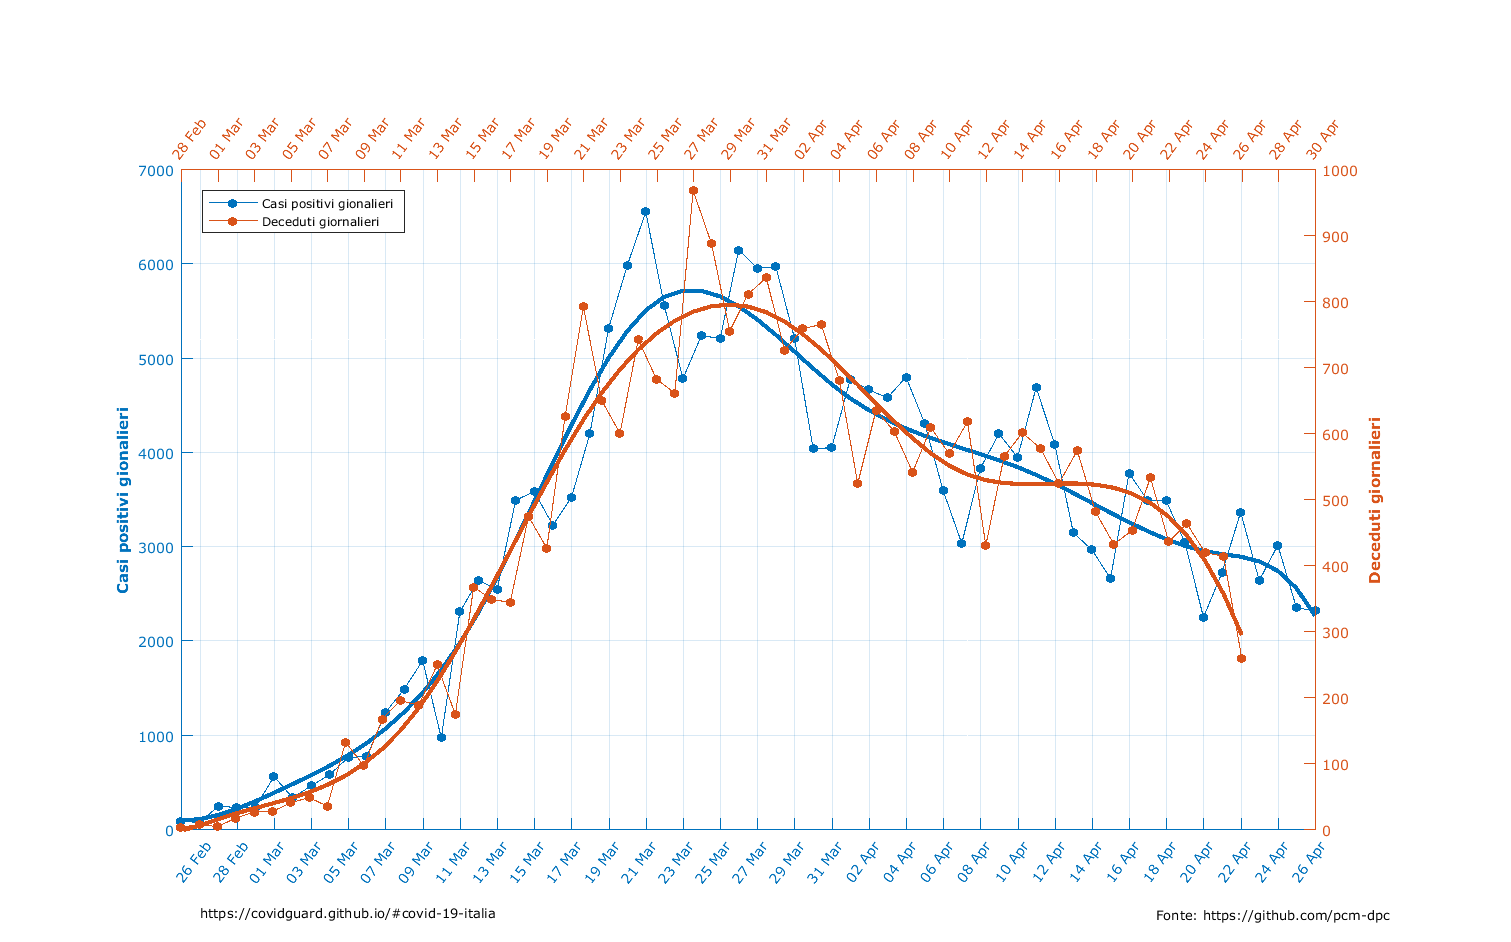
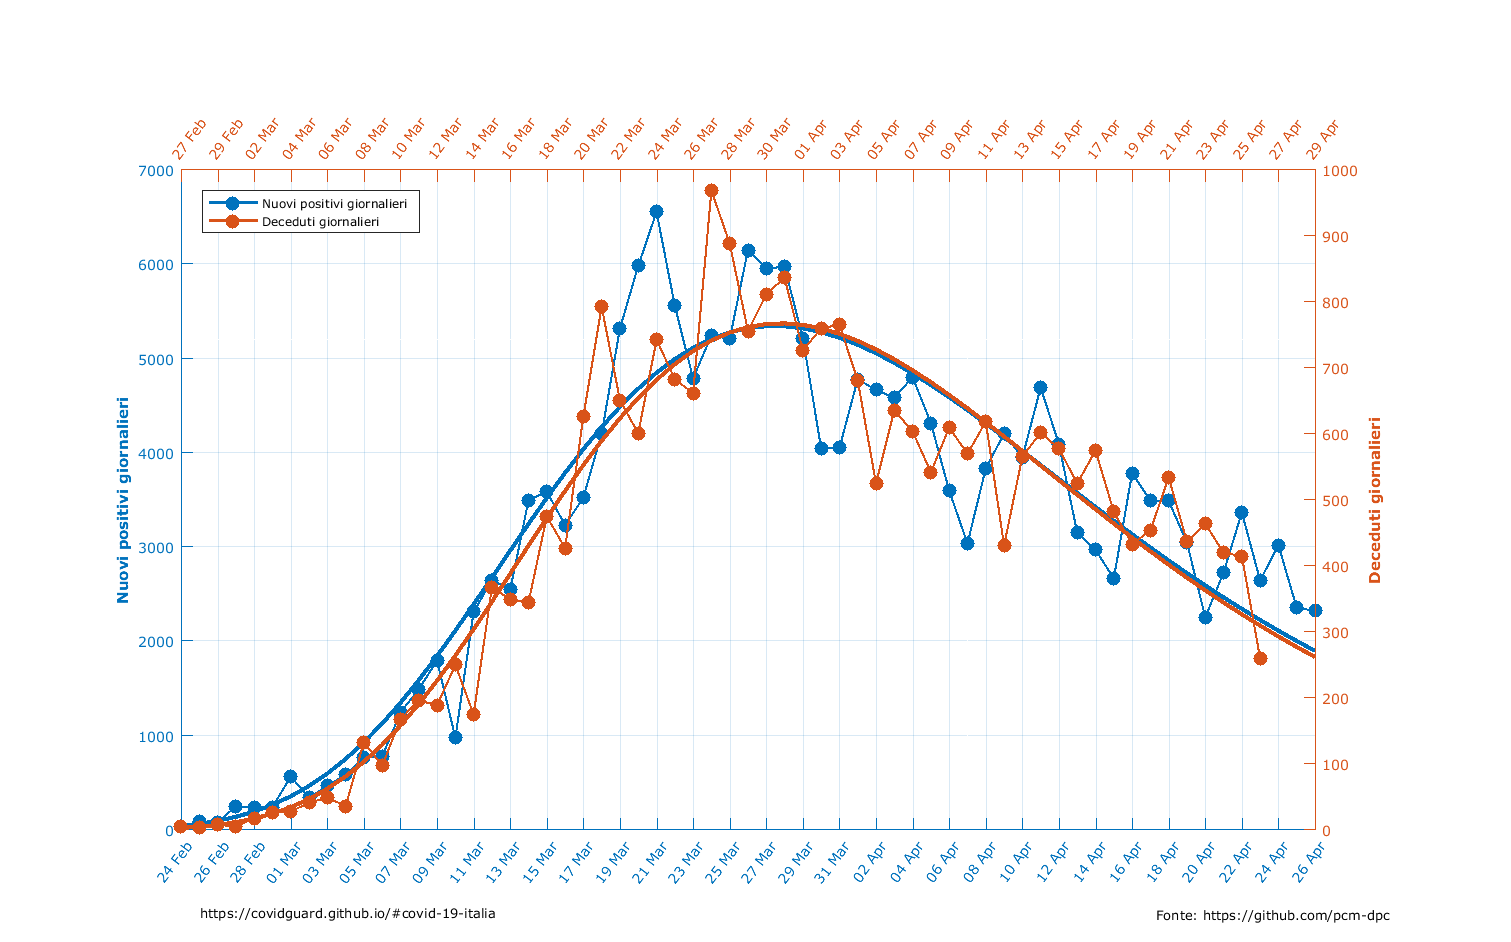
Update correlazioni

Changed region(s): [[0.0933, 0.1847, 0.8709, 0.9544], [0.0622, 0.431, 0.0933, 0.6465], [0.1244, 0.2155, 0.2799, 0.2463]]

diff --git a/code/Analyse_gompertz.m b/code/Analyse_gompertz.m
@@ -2963,174 +2963,174 @@ data_casiPositivi=diff(data_casiPositivi);
 data_deceduti=diff(data_deceduti);
 data_terapie=diff(data_terapie);
 
-% % interpolazione totale casi giornalieri
-% fout=fopen('testIn_gauss.txt','wt');
-% for i=1:size(t,1)
-%     fprintf(fout,'%d;%d\n',t(i),data_casiPositivi(i));
-% end
-% fclose(fout);
-% % command=sprintf('gauss_estim testIn_gauss.txt');system(command);
-% % [t,a1,a2,a3,a4,a5]=textread('testIn_gauss_fit.txt','%f%f%f%f%f%f','delimiter',';');
-% 
-% command=sprintf('gomp_d1_estim testIn_gauss.txt');system(command);
-% [t_1,a1,a2,a3,a4,a5]=textread('testIn_gauss_gomp_d1_fit.txt','%f%f%f%f%f%f','delimiter',';');
-% 
-% 
-% 
-% % interpolazione deceduti giornalieri
-% fout=fopen('testIn_gauss.txt','wt');
-% 
-% for i=1:size(t,1)
-%     fprintf(fout,'%d;%d\n',t(i),data_deceduti(i));
-% end
-% fclose(fout);
-% % command=sprintf('gauss_estim testIn_gauss.txt');system(command);
-% % [t,a1,a2,a3,a4,a5]=textread('testIn_gauss_fit.txt','%f%f%f%f%f%f','delimiter',';');
-% 
-% command=sprintf('gomp_d1_estim testIn_gauss.txt');system(command);
-% [t_1_d,a1_d,a2,a3,a4,a5]=textread('testIn_gauss_gomp_d1_fit.txt','%f%f%f%f%f%f','delimiter',';');
-% 
-% 
-% corrcoeff_tot=[];
-% for d=0:10
-%     a=corrcoef(a1(1:end-d),a1_d(d+1:end));
-%     corrcoeff_tot(d+1)=a(1,2);
-% end
-% [coerrcoeff_max, idx]=max(corrcoeff_tot);
-% offset_dec=idx-1;
-% 
-% 
-% 
-% 
-% 
-% figure;
-% id_f = gcf;
-% set(id_f, 'Name', 'Italia: correlazione temporale');
-% % title(sprintf([regione ': Italia: correlazione nuovi casi/deceduti giornalieri\\fontsize{5}\n ']))
-% 
-% 
-% set(gcf,'NumberTitle','Off');
-% set(gcf,'Position',[26 79 967 603]);
-% grid on
-% hold on
-% 
-% [ax,a,b] = plotxx(t,data_casiPositivi,t,data_deceduti);
-% hold on
-% 
-% ax1 = ax(1);
-% ax2 = ax(2);
-% 
-% set(gcf,'CurrentAxes',ax1)
-% c=plot(t_1,a1,'-r');
-% 
-% set(gcf,'CurrentAxes',ax2)
-% d=plot(t_1_d,a1_d,'-b');
-% 
-% %
-% % a=plot(t,data_casiPositivi,'-ob','LineWidth', 2.0,'color',[0 0.200000002980232 0.600000023841858]); set(a,'markersize',6,'MarkerFaceColor',[0 0.447058826684952 0.74117648601532],'Color',[0 0.447058826684952 0.74117648601532]);
-% % b=plot(t-offset_dec,data_deceduti,'-ob','LineWidth', 2.0,'color',[1 0.200000002980232 0.600000023841858],'Parent',ax2); set(b,'markersize',6,'MarkerFaceColor',[0.850980401039124 0.325490206480026 0.0980392172932625],'Color',[0.850980401039124 0.325490206480026 0.0980392172932625]);
-% 
-% 
-% if ismac
-%     font_size = 9;
-% else
-%     font_size = 6.5;
-% end
-% 
-% set(a,'marker','o','markersize',6,'MarkerFaceColor',[0 0.447058826684952 0.74117648601532],'Color',[0 0.447058826684952 0.74117648601532],'LineWidth', 1.0);
-% set(b,'marker','o','markersize',6,'MarkerFaceColor',[0.850980401039124 0.325490206480026 0.0980392172932625],'Color',[0.850980401039124 0.325490206480026 0.0980392172932625],'LineWidth', 1.0);
-% set(c,'Color',[0 0.447058826684952 0.74117648601532],'LineWidth', 2.0);
-% set(d,'Color',[0.850980401039124 0.325490206480026 0.0980392172932625],'LineWidth', 2.0);
-% 
-% 
-% 
-% set(gcf,'CurrentAxes',ax1)
-% ylabel('Nuovi positivi giornalieri', 'FontName', 'Verdana', 'FontWeight', 'Bold','FontSize',8);
-% set(ax1, 'FontName', 'Verdana');
-% set(ax1, 'FontSize', font_size);
-% set(ax1,'xlim',([t(1),t(end)]));
-% % set(ax1,'ylim',([0,80]));
-% ax1.XTick = time_num(1:2:end);
-% datetick('x', 'dd mmm', 'keepticks') ;
-% set(ax1,'XTickLabelRotation',53,'FontSize',6.5);
-% set(ax1,'Xcolor',[0 0.447058826684952 0.74117648601532]);
-% set(ax1,'Ycolor',[0 0.447058826684952 0.74117648601532]);
-% 
-% set(gcf,'CurrentAxes',ax2)
-% ylabel('Deceduti giornalieri', 'FontName', 'Verdana', 'FontWeight', 'Bold','FontSize',8);
-% set(ax2, 'FontName', 'Verdana');
-% set(ax2, 'FontSize', font_size);
-% set(ax2,'xlim',([t(1)+offset_dec,t(end)+offset_dec]));
-% % set(ax2,'xlim',([t(1)+offset_dec-1,t(end)+offset_dec-1]));
-% % set(ax2,'xlim',([t(1)+offset_dec-1,t(end)+offset_dec-1]));
-% % ax2.XTick = t(1:2:end)+offset_dec-1
-% % set(ax2,'ylim',([0,80]));
-% ax2.XTick = time_num(1:2:end)+offset_dec;
-% ax2.XTickLabel = time_num(1:2:end)+offset_dec;
-% datetick('x', 'dd mmm', 'keepticks') ;
-% set(ax2,'XTickLabelRotation',53,'FontSize',6.5);
-% set(ax2,'Xcolor',[0.850980401039124 0.325490206480026 0.0980392172932625]);
-% set(ax2,'Ycolor',[0.850980401039124 0.325490206480026 0.0980392172932625]);
-% 
-% l=legend([a,b],'Nuovi positivi giornalieri','Deceduti giornalieri');
-% 
-% set(l,'Location','northwest')
-% % overlap copyright info
-% datestr_now = datestr(now);
-% annotation(gcf,'textbox',[0.72342 0.00000 0.2381 0.04638],...
-%     'String',{['Fonte: https://github.com/pcm-dpc']},...
-%     'HorizontalAlignment','center',...
-%     'FontSize',6,...
-%     'FontName','Verdana',...
-%     'FitBoxToText','off',...
-%     'LineStyle','none',...
-%     'Color',[0 0 0]);
-% 
-% annotation(gcf,'textbox',...
-%     [0.125695077559464 0.00165837479270315 0.238100000000001 0.04638],...
-%     'String',{'https://covidguard.github.io/#covid-19-italia'},...
-%     'LineStyle','none',...
-%     'HorizontalAlignment','left',...
-%     'FontSize',6,...
-%     'FontName','Verdana',...
-%     'FitBoxToText','off');
-% 
-% print(gcf, '-dpng', [WORKroot,'/slides/img/regioni/ita_correlazioneCasiDeceduti_v2.PNG']);
-% close(gcf);
-% 
-% 
+% interpolazione totale casi giornalieri
+fout=fopen('testIn_gauss.txt','wt');
+for i=1:size(t,1)
+    fprintf(fout,'%d;%d\n',t(i),data_casiPositivi(i));
+end
+fclose(fout);
+% command=sprintf('gauss_estim testIn_gauss.txt');system(command);
+% [t,a1,a2,a3,a4,a5]=textread('testIn_gauss_fit.txt','%f%f%f%f%f%f','delimiter',';');
+
+command=sprintf('gomp_d1_estim testIn_gauss.txt');system(command);
+[t_1,a1,a2,a3,a4,a5]=textread('testIn_gauss_gomp_d1_fit.txt','%f%f%f%f%f%f','delimiter',';');
+
+
+
+% interpolazione deceduti giornalieri
+fout=fopen('testIn_gauss.txt','wt');
+
+for i=1:size(t,1)
+    fprintf(fout,'%d;%d\n',t(i),data_deceduti(i));
+end
+fclose(fout);
+% command=sprintf('gauss_estim testIn_gauss.txt');system(command);
+% [t,a1,a2,a3,a4,a5]=textread('testIn_gauss_fit.txt','%f%f%f%f%f%f','delimiter',';');
+
+command=sprintf('gomp_d1_estim testIn_gauss.txt');system(command);
+[t_1_d,a1_d,a2,a3,a4,a5]=textread('testIn_gauss_gomp_d1_fit.txt','%f%f%f%f%f%f','delimiter',';');
+
+
+corrcoeff_tot=[];
+for d=0:10
+    a=corrcoef(a1(1:end-d),a1_d(d+1:end));
+    corrcoeff_tot(d+1)=a(1,2);
+end
+[coerrcoeff_max, idx]=max(corrcoeff_tot);
+offset_dec=idx-1;
 
 
 
 
 
-% % lombardia
-% reg=9
-% regione = char(regioni_tot(reg,1));
-% index = find(strcmp(dataReg.denominazione_regione,cellstr(regione)));
-% time_num = fix(datenum(dataReg.data(index)));
-% 
-% 
-% 
-% day_unique = unique(dataReg.data(index));
-% data_casiPositivi=NaN(size(day_unique,1),1);
-% data_deceduti=NaN(size(day_unique,1),1);
-% data_terapie=NaN(size(day_unique,1),1);
-% data_guariti=NaN(size(day_unique,1),1);
-% for k = 1: size(day_unique,1)
-%     index = find(strcmp(dataReg.data,day_unique(k))&strcmp(dataReg.denominazione_regione,cellstr(regione)));
-%     data_casiPositivi(k)=sum(dataReg.totale_casi(index));
-%     data_deceduti(k)=sum(dataReg.deceduti(index));
-%     data_guariti(k)=sum(dataReg.dimessi_guariti(index));
-%     data_terapie(k)=sum(dataReg.terapia_intensiva(index));
-% end
-% time_num = fix(datenum(day_unique));
-% % regione = 'Italia';
-% 
-% t=time_num(2:end);
-% data_casiPositivi=diff(data_casiPositivi);
-% data_deceduti=diff(data_deceduti);
-% data_terapie=diff(data_terapie);
+figure;
+id_f = gcf;
+set(id_f, 'Name', 'Italia: correlazione temporale');
+% title(sprintf([regione ': Italia: correlazione nuovi casi/deceduti giornalieri\\fontsize{5}\n ']))
+
+
+set(gcf,'NumberTitle','Off');
+set(gcf,'Position',[26 79 967 603]);
+grid on
+hold on
+
+[ax,a,b] = plotxx(t,data_casiPositivi,t,data_deceduti);
+hold on
+
+ax1 = ax(1);
+ax2 = ax(2);
+
+set(gcf,'CurrentAxes',ax1)
+c=plot(t_1,a1,'-r');
+
+set(gcf,'CurrentAxes',ax2)
+d=plot(t_1_d,a1_d,'-b');
+
+%
+% a=plot(t,data_casiPositivi,'-ob','LineWidth', 2.0,'color',[0 0.200000002980232 0.600000023841858]); set(a,'markersize',6,'MarkerFaceColor',[0 0.447058826684952 0.74117648601532],'Color',[0 0.447058826684952 0.74117648601532]);
+% b=plot(t-offset_dec,data_deceduti,'-ob','LineWidth', 2.0,'color',[1 0.200000002980232 0.600000023841858],'Parent',ax2); set(b,'markersize',6,'MarkerFaceColor',[0.850980401039124 0.325490206480026 0.0980392172932625],'Color',[0.850980401039124 0.325490206480026 0.0980392172932625]);
+
+
+if ismac
+    font_size = 9;
+else
+    font_size = 6.5;
+end
+
+set(a,'marker','o','markersize',6,'MarkerFaceColor',[0 0.447058826684952 0.74117648601532],'Color',[0 0.447058826684952 0.74117648601532],'LineWidth', 1.0);
+set(b,'marker','o','markersize',6,'MarkerFaceColor',[0.850980401039124 0.325490206480026 0.0980392172932625],'Color',[0.850980401039124 0.325490206480026 0.0980392172932625],'LineWidth', 1.0);
+set(c,'Color',[0 0.447058826684952 0.74117648601532],'LineWidth', 2.0);
+set(d,'Color',[0.850980401039124 0.325490206480026 0.0980392172932625],'LineWidth', 2.0);
+
+
+
+set(gcf,'CurrentAxes',ax1)
+ylabel('Nuovi positivi giornalieri', 'FontName', 'Verdana', 'FontWeight', 'Bold','FontSize',8);
+set(ax1, 'FontName', 'Verdana');
+set(ax1, 'FontSize', font_size);
+set(ax1,'xlim',([t(1),t(end)]));
+% set(ax1,'ylim',([0,80]));
+ax1.XTick = time_num(1:2:end);
+datetick('x', 'dd mmm', 'keepticks') ;
+set(ax1,'XTickLabelRotation',53,'FontSize',6.5);
+set(ax1,'Xcolor',[0 0.447058826684952 0.74117648601532]);
+set(ax1,'Ycolor',[0 0.447058826684952 0.74117648601532]);
+
+set(gcf,'CurrentAxes',ax2)
+ylabel('Deceduti giornalieri', 'FontName', 'Verdana', 'FontWeight', 'Bold','FontSize',8);
+set(ax2, 'FontName', 'Verdana');
+set(ax2, 'FontSize', font_size);
+set(ax2,'xlim',([t(1)+offset_dec,t(end)+offset_dec]));
+% set(ax2,'xlim',([t(1)+offset_dec-1,t(end)+offset_dec-1]));
+% set(ax2,'xlim',([t(1)+offset_dec-1,t(end)+offset_dec-1]));
+% ax2.XTick = t(1:2:end)+offset_dec-1
+% set(ax2,'ylim',([0,80]));
+ax2.XTick = time_num(1:2:end)+offset_dec;
+ax2.XTickLabel = time_num(1:2:end)+offset_dec;
+datetick('x', 'dd mmm', 'keepticks') ;
+set(ax2,'XTickLabelRotation',53,'FontSize',6.5);
+set(ax2,'Xcolor',[0.850980401039124 0.325490206480026 0.0980392172932625]);
+set(ax2,'Ycolor',[0.850980401039124 0.325490206480026 0.0980392172932625]);
+
+l=legend([a,b],'Nuovi positivi giornalieri','Deceduti giornalieri');
+
+set(l,'Location','northwest')
+% overlap copyright info
+datestr_now = datestr(now);
+annotation(gcf,'textbox',[0.72342 0.00000 0.2381 0.04638],...
+    'String',{['Fonte: https://github.com/pcm-dpc']},...
+    'HorizontalAlignment','center',...
+    'FontSize',6,...
+    'FontName','Verdana',...
+    'FitBoxToText','off',...
+    'LineStyle','none',...
+    'Color',[0 0 0]);
+
+annotation(gcf,'textbox',...
+    [0.125695077559464 0.00165837479270315 0.238100000000001 0.04638],...
+    'String',{'https://covidguard.github.io/#covid-19-italia'},...
+    'LineStyle','none',...
+    'HorizontalAlignment','left',...
+    'FontSize',6,...
+    'FontName','Verdana',...
+    'FitBoxToText','off');
+
+print(gcf, '-dpng', [WORKroot,'/slides/img/regioni/ita_correlazioneCasiDeceduti_v2.PNG']);
+close(gcf);
+
+
+
+
+
+
+
+% % % % % lombardia
+% % % % reg=9
+% % % % regione = char(regioni_tot(reg,1));
+% % % % index = find(strcmp(dataReg.denominazione_regione,cellstr(regione)));
+% % % % time_num = fix(datenum(dataReg.data(index)));
+% % % % 
+% % % % 
+% % % % 
+% % % % day_unique = unique(dataReg.data(index));
+% % % % data_casiPositivi=NaN(size(day_unique,1),1);
+% % % % data_deceduti=NaN(size(day_unique,1),1);
+% % % % data_terapie=NaN(size(day_unique,1),1);
+% % % % data_guariti=NaN(size(day_unique,1),1);
+% % % % for k = 1: size(day_unique,1)
+% % % %     index = find(strcmp(dataReg.data,day_unique(k))&strcmp(dataReg.denominazione_regione,cellstr(regione)));
+% % % %     data_casiPositivi(k)=sum(dataReg.totale_casi(index));
+% % % %     data_deceduti(k)=sum(dataReg.deceduti(index));
+% % % %     data_guariti(k)=sum(dataReg.dimessi_guariti(index));
+% % % %     data_terapie(k)=sum(dataReg.terapia_intensiva(index));
+% % % % end
+% % % % time_num = fix(datenum(day_unique));
+% % % % % regione = 'Italia';
+% % % % 
+% % % % t=time_num(2:end);
+% % % % data_casiPositivi=diff(data_casiPositivi);
+% % % % data_deceduti=diff(data_deceduti);
+% % % % data_terapie=diff(data_terapie);
 
 
 
@@ -3270,7 +3270,7 @@ annotation(gcf,'textbox',...
     'FontName','Verdana',...
     'FitBoxToText','off');
 
-print(gcf, '-dpng', [WORKroot,'/slides/img/regioni/ita_correlazioneCasiDeceduti_v2.PNG']);
+print(gcf, '-dpng', [WORKroot,'/slides/img/regioni/ita_correlazioneCasiDeceduti_v2_spline.PNG']);
 close(gcf);
 
 
